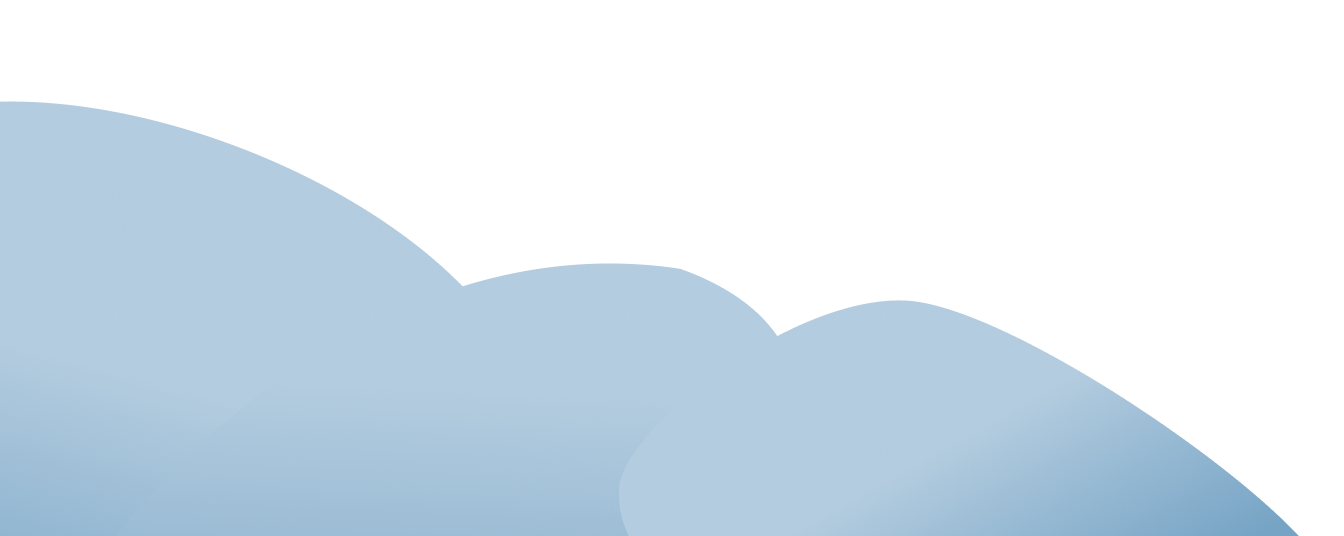
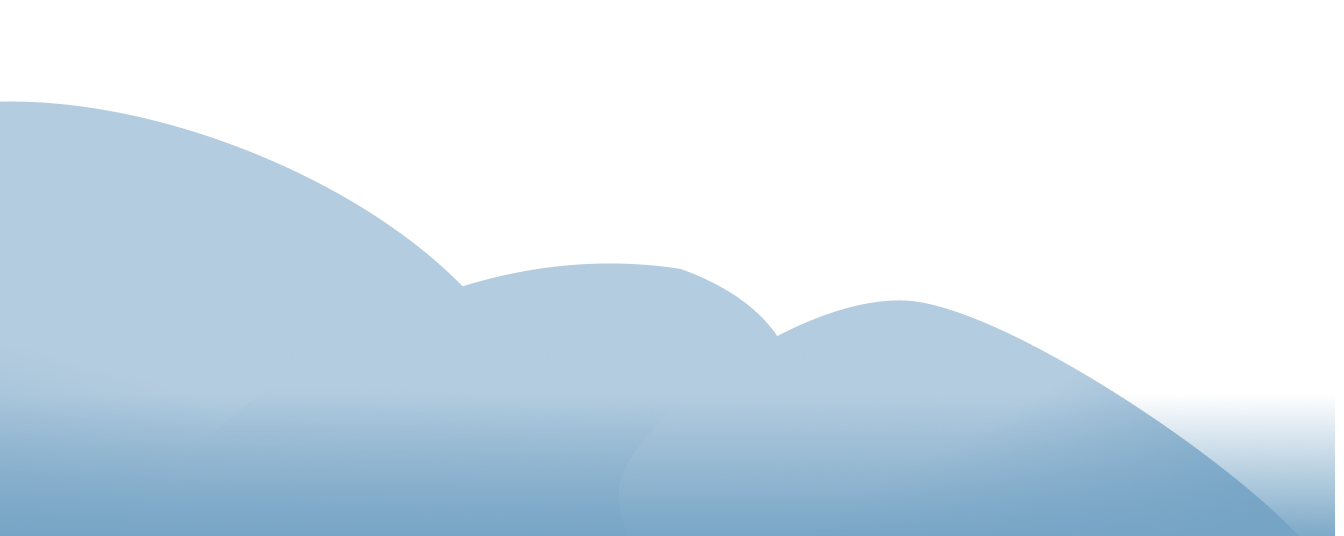
update pebble on mobile

Changed region(s): [[0.0, 0.8358, 0.8125, 1.0], [0.8438, 0.7761, 1.0, 1.0]]

diff --git a/src/components/HackathonS26/Hero.tsx b/src/components/HackathonS26/Hero.tsx
@@ -25,15 +25,6 @@ const Hero = () => {
           />
         </div>
 
-        {/* LowSnow layer */}
-        <div className="absolute inset-0 z-10">
-          <img
-            src="/s26/Hero/LowSnowPreShadowed.png"
-            alt="Low Snow Pre Shadowed"
-            className="absolute bottom-20 left-0 scale-[4]"
-          />
-        </div>
-
         {/* House layer */}
         <div className="absolute w-screen inset-0 z-7">
           <img
@@ -74,11 +65,28 @@ const Hero = () => {
 
         <FloatingParticles count={12} />
 
-        <div className="absolute left-0 z-10 animate-float-subtle bottom-0" >
+        {/* LowSnow layer */}
+        <div className="absolute inset-0 z-10">
+          <div className="absolute bottom-0 overflow-hidden w-screen">
+            <img
+              src="/s26/Hero/LowSnowPreShadowed.png"
+              alt="Low Snow Pre Shadowed"
+              className="left-0 scale-[3] sm:scale-[2] lg:scale-[1]"
+            />
+            <div
+              className="h-[8rem]"
+              style={{
+                background: "linear-gradient(to bottom, #76a4c5, #6fa7cf)"
+              }}
+            />
+          </div>
+        </div>
+
+        <div className="absolute left-0 z-10 bottom-[5rem] lg:bottom-[8rem]" >
           <img
             src="/s26/pebble.gif"
             alt="Penguin mascot"
-            className="w-[400px] md:w-[500px] lg:w-[650px] xl:w-[800px] flex-shrink-0"
+            className="w-[400px] md:w-[500px] lg:w-[650px] xl:w-[800px] flex-shrink-0 animate-float-subtle bottom-0"
           />
           <img
             src="/s26/PenguinCover.png"
